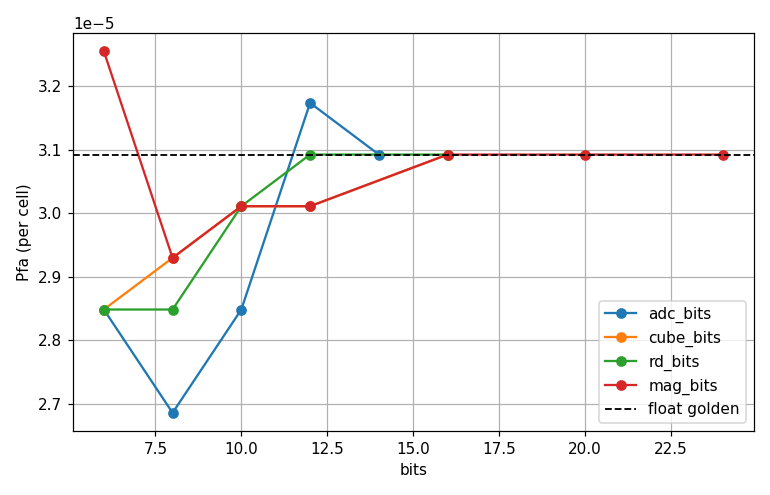
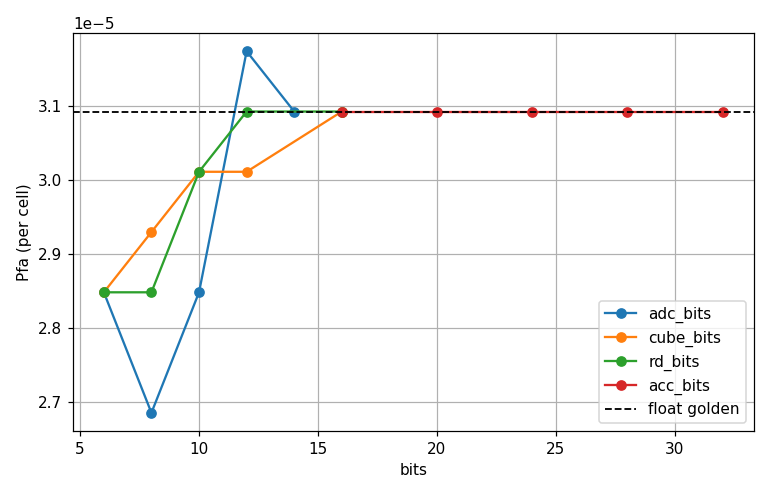
fix: delete Q_mag quantization step in implementation

diff --git a/tests/test_fixedpoint_frontend.py b/tests/test_fixedpoint_frontend.py
@@ -30,7 +30,7 @@ def test_range_doppler_narrow_fp_changes_output():
     assert not np.allclose(range_doppler(f, fp=narrow), range_doppler(f))
 
 
-# --- Task 4: integrate (NCI) Q_mag/Q_acc ---
+# --- Task 4: integrate (NCI) Q_acc ---
 
 from processing.point_cloud import integrate
 
@@ -48,7 +48,7 @@ def test_integrate_fp_none_bit_identical():
 
 def test_integrate_wide_fp_close_to_float():
     s = _stack()
-    wide = FixedPointConfig(mag_bits=24, acc_bits=32)
+    wide = FixedPointConfig(acc_bits=32)
     out_f, out_q = integrate(s), integrate(s, fp=wide)
     assert np.max(np.abs(out_q - out_f)) / np.max(out_f) < 1e-3
 
@@ -80,9 +80,42 @@ def test_process_mimo_frame_fp_none_bit_identical():
 
 def test_process_mimo_frame_fp_runs_and_differs():
     frame, header = _mimo_frame_and_header()
-    fp = FixedPointConfig(adc_bits=6, cube_bits=6, rd_bits=6, mag_bits=8,
+    fp = FixedPointConfig(adc_bits=6, cube_bits=6, rd_bits=6,
                           adc_full_scale=float(np.max(np.abs(frame))))
     out = process_mimo_frame(frame, header, fp=fp)
     assert out["power_db"].shape == process_mimo_frame(frame, header)["power_db"].shape
     assert not np.allclose(out["power_db"],
                            process_mimo_frame(frame, header)["power_db"])
+
+
+def test_fixedpoint_nci_does_not_flood_cfar():
+    """Regression: the fixed-point front end must not flood CFAR with false alarms.
+
+    The NCI stage used to quantize the power |rd|^2 block-scaled to the strong
+    target peak; squaring doubles the dynamic range, so a 16-bit power word could
+    not represent the noise floor and rounded 20-99% of cells to exactly 0. Those
+    zeros became -120 dB holes (10*log10(1e-12)) that deflated CA-CFAR's local
+    noise estimate, exploding the detection count from ~12 (float) to 200-900.
+
+    The fix computes |rd|^2 exactly from the Q_rd cube and quantizes only the
+    (wide) accumulator, so the noise floor survives and the float-calibrated CFAR
+    threshold keeps giving a nominal false-alarm rate. This pins the count near
+    the float baseline on a weak+strong dynamic-range scenario.
+    """
+    cfg, targets = load_scenario("scenarios/scenario_mimo_fixedpoint_dynrange.json")
+    gen = FMCWBeatSignalGenerator(cfg)
+    for fi in range(4):
+        frame = gen.generate_frame_mimo(targets, frame_index=fi)
+        header = build_header(frame=frame, frame_id=fi, topic="t",
+                              metadata=gen.metadata(), ground_truth=[],
+                              timestamp_unix_s=0.0)
+        fp = FixedPointConfig(adc_bits=12, cube_bits=14, acc_bits=32,
+                              adc_full_scale=float(np.max(np.abs(frame))))
+        n_float = int(process_mimo_frame(frame, header)["mask"].sum())
+        out_fp = process_mimo_frame(frame, header, fp=fp)
+        n_fp = int(out_fp["mask"].sum())
+        # No zeroed noise floor -> no -120 dB holes.
+        assert not np.any(out_fp["power_db"] <= -119.0), (fi, "floor zeroed")
+        # No false-alarm flood: stay within a small factor of the float count,
+        # not the 20-90x explosion the bug produced.
+        assert n_fp <= 3 * n_float + 10, (fi, n_float, n_fp)

diff --git a/processing/point_cloud.py b/processing/point_cloud.py
@@ -19,15 +19,22 @@ def integrate(rd_stack: np.ndarray, fp=None) -> np.ndarray:
     Returns: (D, Rn) real power map = sum_v |rd_stack[v]|^2 — the detection map
     CFAR runs on (channel SNR boost, channel axis collapsed).
 
-    With fp set, each |rd_v|^2 is quantized (Q_mag) and the running sum (Q_acc).
+    With fp set, each channel's power |rd_v|^2 is formed *exactly* from the
+    already-quantized (Q_rd) complex cube — squaring finite I/Q is lossless — and
+    only the running accumulator is quantized (Q_acc). There is deliberately no
+    separate magnitude/power word: in hardware the power is computed from the I/Q
+    at full product width, so a distinct narrow, peak-scaled power stage does not
+    exist. (Quantizing |rd_v|^2 directly doubles the dynamic range and, block-
+    scaled to the strong-target peak, zeroed the noise floor into -inf dB holes
+    that flooded CFAR; see test_fixedpoint_nci_does_not_flood_cfar.) acc_bits must
+    stay wide enough to hold summed power (~24-32 bits).
     """
     if fp is None:
         return np.sum(np.abs(rd_stack) ** 2, axis=0)
     acc = np.zeros(rd_stack.shape[1:], dtype=np.float64)
     for v in range(rd_stack.shape[0]):
-        mag = np.abs(rd_stack[v]) ** 2
-        mag = quantize_stage(mag, fp.mag_bits, fp, fp.mag_full_scale)
-        acc = quantize_stage(acc + mag, fp.acc_bits, fp, fp.acc_full_scale)
+        power_v = np.abs(rd_stack[v]) ** 2       # exact power from the Q_rd cube
+        acc = quantize_stage(acc + power_v, fp.acc_bits, fp, fp.acc_full_scale)
     return acc
 
 

diff --git a/processing/config.py b/processing/config.py
@@ -284,18 +284,16 @@ class FixedPointConfig:
     adc_full_scale: float = 1.0      # FIXED ADC scale; set per scenario/sweep
     cube_bits: int = 16
     rd_bits: int = 16
-    mag_bits: int = 16
     acc_bits: int = 32
     scaling: str = "block"           # internal stages: "block" | "fixed"
     rounding: str = "nearest"        # "nearest" | "truncate"
     overflow: str = "saturate"       # "saturate" | "wrap"
     cube_full_scale: float | None = None   # required when scaling == "fixed"
     rd_full_scale: float | None = None
-    mag_full_scale: float | None = None
     acc_full_scale: float | None = None
 
     def __post_init__(self):
-        for name in ("adc_bits", "cube_bits", "rd_bits", "mag_bits", "acc_bits"):
+        for name in ("adc_bits", "cube_bits", "rd_bits", "acc_bits"):
             if getattr(self, name) < 2:
                 raise ValueError(f"FixedPointConfig.{name} must be >= 2")
         if self.adc_full_scale <= 0:
@@ -307,8 +305,7 @@ class FixedPointConfig:
         if self.overflow not in ("saturate", "wrap"):
             raise ValueError("FixedPointConfig.overflow must be 'saturate'|'wrap'")
         if self.scaling == "fixed":
-            for name in ("cube_full_scale", "rd_full_scale", "mag_full_scale",
-                         "acc_full_scale"):
+            for name in ("cube_full_scale", "rd_full_scale", "acc_full_scale"):
                 v = getattr(self, name)
                 if v is None or v <= 0:
                     raise ValueError(

diff --git a/evaluation/fixedpoint_sweep.py b/evaluation/fixedpoint_sweep.py
@@ -119,8 +119,7 @@ def sweep_stage(cfg, targets, *, stage, bits, n_frames=10, n_seeds=5,
         gen = FMCWBeatSignalGenerator(cfg)
         adc_full_scale = float(np.max(np.abs(
             gen.generate_frame_mimo(targets, frame_index=0))))
-    wide = base or dict(adc_bits=20, cube_bits=24, rd_bits=24, mag_bits=24,
-                        acc_bits=32)
+    wide = base or dict(adc_bits=20, cube_bits=24, rd_bits=24, acc_bits=32)
     gold = frame_metrics(cfg, targets, fp=None, n_frames=n_frames, n_seeds=n_seeds)
     rows = []
     for b in bits:
@@ -212,10 +211,10 @@ def main():
     args = ap.parse_args()
 
     cfg, targets = load_scenario(args.scenario)
-    stages = ["adc_bits", "cube_bits", "rd_bits", "mag_bits"]
+    stages = ["adc_bits", "cube_bits", "rd_bits", "acc_bits"]
     bit_grids = {"adc_bits": [6, 8, 10, 12, 14], "cube_bits": [6, 8, 10, 12, 16],
                  "rd_bits": [6, 8, 10, 12, 16],
-                 "mag_bits": [6, 8, 10, 12, 16, 20, 24]}  # power-domain: needs ~20+
+                 "acc_bits": [16, 20, 24, 28, 32]}  # summed-power word: needs ~24+
     results = [sweep_stage(cfg, targets, stage=s, bits=bit_grids[s],
                            n_frames=args.frames, n_seeds=args.seeds) for s in stages]
     _plot_sweep(results, "report/fixedpoint_evaluation")

diff --git a/simulator/streaming_subscriber_mimo.py b/simulator/streaming_subscriber_mimo.py
@@ -48,7 +48,7 @@ def parse_args() -> argparse.Namespace:
     p.add_argument("--fixed-point", nargs="?", const="", default=None, metavar="SPEC",
                    help="enable fixed-point front end; optional SPEC overrides bit "
                         "widths, e.g. --fixed-point adc=6,cube=10 "
-                        "(keys: adc,cube,rd,mag,acc,fs)")
+                        "(keys: adc,cube,rd,acc,fs)")
     return p.parse_args()
 
 
@@ -61,7 +61,7 @@ def build_fixed_point(spec):
         return None
     from processing.config import FixedPointConfig
     keymap = {"adc": "adc_bits", "cube": "cube_bits", "rd": "rd_bits",
-              "mag": "mag_bits", "acc": "acc_bits", "fs": "adc_full_scale"}
+              "acc": "acc_bits", "fs": "adc_full_scale"}
     kw = {}
     for tok in filter(None, (t.strip() for t in spec.split(","))):
         k, _, v = tok.partition("=")
@@ -170,7 +170,7 @@ def main() -> None:
     fp = build_fixed_point(args.fixed_point)
     if fp is not None:
         print(f"Fixed-point front end: adc={fp.adc_bits} cube={fp.cube_bits} "
-              f"rd={fp.rd_bits} mag={fp.mag_bits} acc={fp.acc_bits} "
+              f"rd={fp.rd_bits} acc={fp.acc_bits} "
               f"adc_full_scale={fp.adc_full_scale}")
 
     ctx = zmq.Context.instance()

diff --git a/tests/test_fixed_point.py b/tests/test_fixed_point.py
@@ -104,5 +104,5 @@ def test_fixedpoint_config_fixed_requires_full_scales():
     with pytest.raises(ValueError):
         FixedPointConfig(scaling="fixed")          # no full-scales
     ok = FixedPointConfig(scaling="fixed", cube_full_scale=1.0, rd_full_scale=1.0,
-                          mag_full_scale=1.0, acc_full_scale=1.0)
+                          acc_full_scale=1.0)
     assert ok.scaling == "fixed"

diff --git a/report/fixedpoint_evaluation/fixedpoint_evaluation_report.md b/report/fixedpoint_evaluation/fixedpoint_evaluation_report.md
@@ -35,7 +35,7 @@ Each candidate bit width is judged against the float pipeline by a set of metric
 
 ## 2. Implementation
 
-The front end is quantized at five boundaries as following, everything else (the FFT butterflies,
+The front end is quantized at four boundaries as following, everything else (the FFT butterflies,
 the CFAR sliding-window arithmetic, the whole back end) computes in float.
 
 ```
@@ -50,7 +50,8 @@ generate_frame_mimo            ← ideal "analog" truth, UNCHANGED (no fp here)
    │        [Q_rd]    Doppler-FFT output → rd_bits
    │
    ▼ integrate(fp):  Σ_v |rd_v|²
-   │     [Q_mag]  each |rd_v|² → mag_bits
+   │     each |rd_v|² formed EXACTLY from the Q_rd cube (squaring finite I/Q is
+   │     lossless — no separate power word)
    │     [Q_acc]  running sum  → acc_bits   (the integrated power map = CFAR input)
    │
    ▼ CFAR  (float compute on the quantized integer power map; output = boolean mask)
@@ -63,8 +64,7 @@ generate_frame_mimo            ← ideal "analog" truth, UNCHANGED (no fp here)
 | `adc_bits` (+ `adc_full_scale`) | `Q_adc` (digitizer) | 12–16-bit ADC |
 | `cube_bits` | range-FFT output | 16-bit I/Q radar cube (SRAM-dominant) |
 | `rd_bits` | Doppler-FFT output | derived (≈ cube word + FFT bit growth) |
-| `mag_bits` | per-channel power `abs(rd_v)²` | derived (≈ 2× the `rd` word) |
-| `acc_bits` | NCI accumulator | 32–40-bit accumulator |
+| `acc_bits` | NCI accumulator (summed power) | 24–40-bit accumulator |
 
 The ADC uses a **fixed** full-scale, sized to contain the strong return (an
 over-range input would clip, but here the strong return sits at full-scale and
@@ -85,12 +85,11 @@ target dropping below the LSB, which is what the §3 sweeps study.
 
 **Goal.** Determine each swept stage's *knee* — the fewest bits at which the
 front end still matches the float pipeline — and identify which metric binds each
-stage. Four of the five boundaries are swept (`adc`, `cube`, `rd`, `mag`); the
-NCI accumulator (`acc`) is held wide and not swept. An accumulator that
-sums `K` magnitude terms needs `mag_bits + ceil(log2(K))` bits to hold the sum
-without losing the LSBs the `mag` stage already paid for, so its width is a
-derived headroom requirement rather than an independent precision knob with its
-own knee. Each swept stage is run across a bit range while the others are held wide
+stage. All four boundaries are swept (`adc`, `cube`, `rd`, `acc`). There is no
+separate power word: `integrate` forms each `|rd_v|²` exactly from the `Q_rd`
+cube (squaring finite I/Q is lossless), so the accumulator `Q_acc` is the *only*
+place the integrated power is quantized — and, holding *power*, it is the stage
+that carries the doubled dynamic range (§3.2). Each swept stage is run across a bit range while the others are held wide
 (≈float), so every curve isolates that one stage's cost; statistics are
 Monte-Carlo over `element_noise_seed`. The dashed line in each figure is the
 float-golden value, the plateau a stage should approach as bits increase. All four
@@ -102,9 +101,9 @@ CMD: `python -m evaluation.fixedpoint_sweep`
 
 **Pd is the binding metric.** Pd is the weak-target detection rate on the
 dynamic-range scene, gated per frame at the moving target's cell. The **ADC** stage
-shows a clean Pd knee — its fixed full-scale means too few bits push the weak target
+shows a clean Pd knee (~8 bits) — its fixed full-scale means too few bits push the weak target
 below the LSB. The block-scaled internal stages behave differently from one another:
-`rd` recovers by ~10 bits, while `cube` and `mag` carry their own binding limits: The cube Pd curve is non-monotonic (8 bits scores worse than 6), and the mag Pd curve recovers only at ~20 bits — double every other stage. Each is a clue to a binding constraint the plots don't directly measure, will discuss in §3.1 and §3.2.
+`rd` recovers by ~10 bits, while `cube` and `acc` carry their own binding limits: The cube Pd curve is non-monotonic (8 bits scores worse than 6), and the acc Pd curve recovers only at ~24–28 bits — roughly double every other stage. Each is a clue to a binding constraint the plots don't directly measure, will discuss in §3.1 and §3.2.
 
 ![False-alarm rate vs bits, per stage](fixedpoint_pfa_vs_bits.png)
 
@@ -123,29 +122,31 @@ SNR loss is how far the weak target's output SNR falls below the float pipeline 
 the dB "budget" view of the detection cost. The curves top out at ~7 dB — the target's entire float
 SNR — so that plateau means it is fully buried. The curve largely
 **mirrors Pd**: both track the weak target being lost as bits are starved, and the
-knees agree — `adc` recovers by ~8 bits, `cube` by ~10, `mag` only by ~20 (its
-power-domain span, §3.2). It is **clamped at 0** — quantization cannot improve SNR,
+knees agree — `adc` recovers by ~8 bits, `cube` by ~10, `acc` only by ~24–28 (its
+power-domain span plus accumulation headroom, §3.2). It is **clamped at 0** — quantization cannot improve SNR,
 so a negative reading would only be a noise-floor-estimator artifact (where Pd, not
 SNR, is the real truth).
 
 ![SFDR vs bits, per stage](fixedpoint_sfdr_vs_bits.png)
 
 **SFDR** is the dominant (strong) return's peak minus the largest spur outside the
-target gates. **The flat ~27 dB floor is the strong target's own range leakage** — a
+target gates. **The flat ~27.5 dB floor is the strong target's own range leakage** — a
 deterministic windowing/processing artifact ~2 range bins from the peak (≈ −27 dBc),
-not a quantization spur. So SFDR is **bit-independent** here: quantization spurs stay
-below that leakage floor across the usable bit range, so adding bits does not move
-it. The lone exception — `mag` at 6–8 bits spiking to ~190 dB — is a degenerate
-artifact, not a clean spectrum: coarse power-domain quantization drives every
-non-target cell below the LSB to zero, and a zeroed cell reads the −120 dB numerical
-floor (`power_db = 10·log10(power + 1e-12)` with `power = 0`). So the "largest spur"
-is that floor and SFDR jumps to a huge value. The weak target is already lost there
-(Pd ≈ 0).
+not a quantization spur. So SFDR is **bit-independent** across *every* swept stage,
+including `acc`: quantization spurs stay below that leakage floor across the usable
+bit range, so adding bits does not move it. (An earlier version of the pipeline
+quantized each `|rd_v|²` to a narrow per-channel power word, which at 6–8 bits drove
+every non-target cell below the LSB to zero; a zeroed cell reads the −120 dB
+numerical floor — `power_db = 10·log10(power + 1e-12)` with `power = 0` — and that
+degenerate all-zero map both spiked SFDR to ~190 dB and, more seriously, flooded
+CFAR with false alarms. That per-channel power word has been removed: `integrate`
+now forms the power exactly and quantizes only the 12-channel *sum* at `Q_acc`, so
+the noise floor is never zeroed across the swept range and SFDR stays clean.)
 
 Taken together, the four figures say Pd is what binds, Pfa is bit-robust, SNR
 loss mirrors Pd, and SFDR is leakage-limited. They also show two **oddities** the
 metrics alone don't explain: the **cube** Pd curve is non-monotonic (8 bits scores
-worse than 6), and the **mag** Pd curve recovers only at ~20 bits — double every other stage.
+worse than 6), and the **acc** Pd curve recovers only at ~24–28 bits — roughly double every other stage.
 Each is a clue to a binding constraint the plots don't directly measure; the next
 two subsections run them down.
 
@@ -170,11 +171,11 @@ other stages held wide (Monte-Carlo over seeds) gives the spurious-detection rat
 
 | `cube_bits` | spurious-detection rate | vs float |
 |---|---|---|
-| float | 1.6e-5 | 1× |
-| 6 | 8.7e-2 | ~5300× |
-| 8 | 6.1e-3 | ~370× |
-| 10 | 1.9e-5 | ~1× |
-| 12 / 16 | ~3e-5 | ~2× |
+| float | 2.3e-5 | 1× |
+| 6 | 8.7e-2 | ~3800× |
+| 8 | 5.5e-3 | ~240× |
+| 10 | 2.0e-5 | ~1× |
+| 12 / 16 | ~2e-5 | ~1× |
 
 Reproduce: `strong_return_spur_rate(cfg, targets, fp)` in
 `evaluation/fixedpoint_sweep.py`.
@@ -186,23 +187,47 @@ operationally is the spur level vs the *detection threshold* (~60 dB below the
 strong target), not vs the strong target — so the spurious-detection *rate* is the
 right measure, not the peak-spur ratio.
 
-### 3.2 Power-domain quantization (the mag-stage bit-driver)
+### 3.2 Power-domain quantization + accumulation headroom (the acc-stage bit-driver)
 
-The mag Pd curve recovers only at ~20 bits — twice the others. The power domain
-explains the cost.
+The acc Pd curve recovers only at ~24–28 bits — roughly twice the others. Two
+compounding costs meet at this one stage: the power domain, and the accumulation
+headroom.
 
-`mag_bits` quantizes **power** (`abs(rd)²`) linearly, and a linear word delivers
-only half the dynamic range per bit for power as for a voltage/amplitude quantity:
-~3 dB/bit (`10·log10 2`) versus ~6 dB/bit (`20·log10 2`). The scene's dynamic range
-in dB is unchanged — it is ~60 dB either way (strong/weak amplitude 0.3/0.00025 →
-61.6 dB, identical in power) — but because power is the square, the
-*linear* ratio that must be stored squares (voltage ratio 2¹⁰ → power ratio 2²⁰), so
-it takes twice as many bits. A 16-bit power word therefore spans only ~48 dB: once
-the strong return sets the block scale, the weak target's power (~60 dB down) falls
-below the LSB and is lost — Pd stays ~0.6 through 16 bits and recovers only at
-**~20 bits** (~60 dB), as the `mag_bits` sweep shows. The power domain needs
-roughly **twice** the word length of the voltage stages (`cube`/`rd`, ~10 bits) for
-the same dynamic range.
+**Power domain (~2× bits).** `Q_acc` quantizes **power** (`Σ_v |rd_v|²`) linearly,
+and a linear word delivers only half the dynamic range per bit for power as for a
+voltage/amplitude quantity: ~3 dB/bit (`10·log10 2`) versus ~6 dB/bit (`20·log10 2`).
+The scene's dynamic range in dB is unchanged — ~62 dB either way (strong/weak
+amplitude 0.3/0.00025 → 61.6 dB, identical in power) — but because power is the
+square, the *linear* ratio that must be stored squares (voltage ratio 2¹⁰ → power
+ratio 2²⁰), so it takes twice as many bits: **~20 bits** just to span the scene once
+the strong return sets the block scale. A 16-bit power word spans only ~48 dB, so
+the weak target's power (~62 dB down) falls below the LSB — Pd stays ~0.63 through
+16–20 bits.
+
+**Accumulation headroom (+~4 bits).** The accumulator sums `K = n_tx·n_rx = 12`
+per-channel power maps; holding that sum without dropping the LSBs the weak target
+needs adds `ceil(log2 K) = 4` bits on top. `~20 + ~4 → ~24` bits — exactly where Pd
+recovers (0.98 at 24 bits, full at 28).
+
+So the accumulator is the single most expensive word in the front end, because it
+is where the two power-domain costs land together. (In the earlier draft these were
+split across a per-channel power word — `mag`, ~20 bits — and a separately-argued
+accumulator headroom; but that per-channel word was unphysical, and quantizing it
+block-scaled to the peak zeroed the noise floor and flooded CFAR, §3 SFDR note.
+Removing it collapses both costs into `Q_acc`, the one place power is actually
+quantized.) The SNR-loss curve for `acc` is **non-monotonic** — 0.0 dB at 20 bits,
+up to 1.3 dB at 24, back to ~0 at 28 — and it is a noise-floor-estimator artifact,
+not a real regression. SNR loss is measured as the weak target's peak above the
+*median* off-DC power (the noise-floor estimate). At 20 bits the summed-power floor
+has collapsed (most cells at/near the LSB), so the median is artificially low, the
+apparent SNR is inflated, and the loss reads ~0 **even though Pd is only 0.69** — the
+target is not actually detected. Raising bits *restores* the floor: at 24 bits the
+median climbs back toward its true value, so the weak target's small but genuine
+quantization loss (~1.3 dB) finally becomes measurable, and Pd simultaneously jumps
+to 0.98. By 28 bits the floor is fully restored and quantization is negligible, so
+the loss settles at ~0 with Pd at the golden 0.993. In other words the 24-bit
+"bump" is the estimator becoming trustworthy again, not the detection getting worse —
+Pd (monotonic: 0.63 → 0.69 → 0.98 → 0.99) is the truth here.
 
 ### 3.3 Bit widths chosen
 
@@ -215,13 +240,13 @@ The §1 Pfa gate is bit-robust (satisfied everywhere), so the operative gates ar
 | `adc` | ~8 | Pd (weak-target loss) |
 | `cube` | ~10 | spurious-detection rate (spur flooding, §3.1) |
 | `rd` | ~10 | Pd |
-| `mag` | ~20 | Pd (power-domain, §3.2) |
-| `acc` | 32 | — (held wide; not swept) |
+| `acc` | ~24–28 | Pd (power-domain + accumulation headroom, §3.2) |
 
-The **mag** word dominates the cost — quantizing *power* needs roughly twice the
-bits of the others for the same dynamic range — and the **cube** word is set by
-false alarms, not detection. The accumulator was held wide throughout, so its own
-knee is left for future work.
+The **accumulator** dominates the cost — it is the one place *power* is quantized,
+so it pays both the ~2× power-domain penalty and the ~4-bit accumulation headroom,
+needing roughly 2.5–3× the bits of the voltage stages (`cube`/`rd`, ~10) — while the
+**cube** word is set by false alarms, not detection. The voltage stages (`adc`,
+`cube`, `rd`) all knee at ~8–10 bits.
 
 ## 4. Memory benefit (analytic)
 
